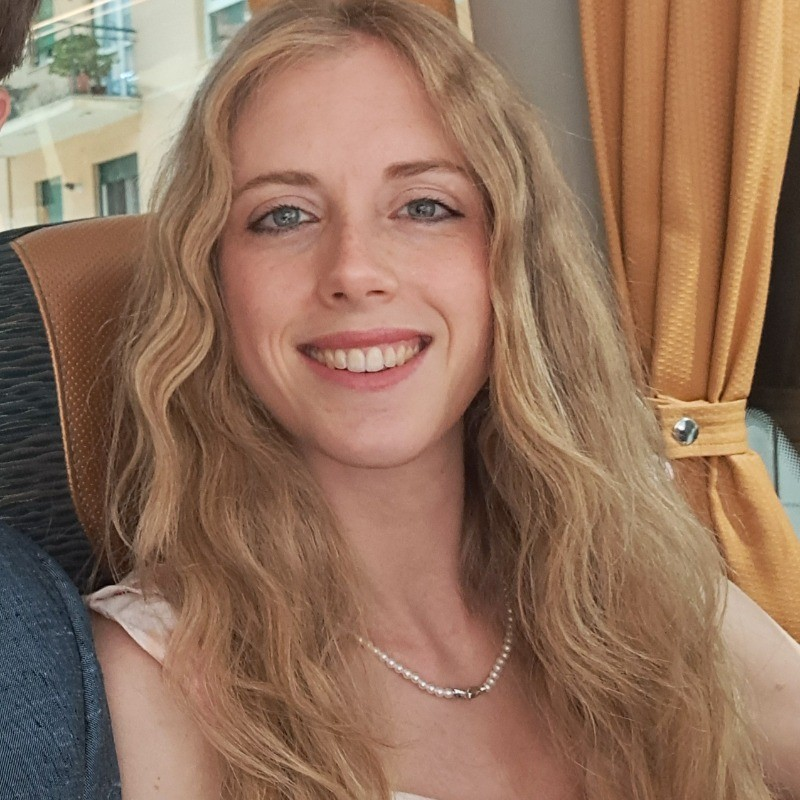
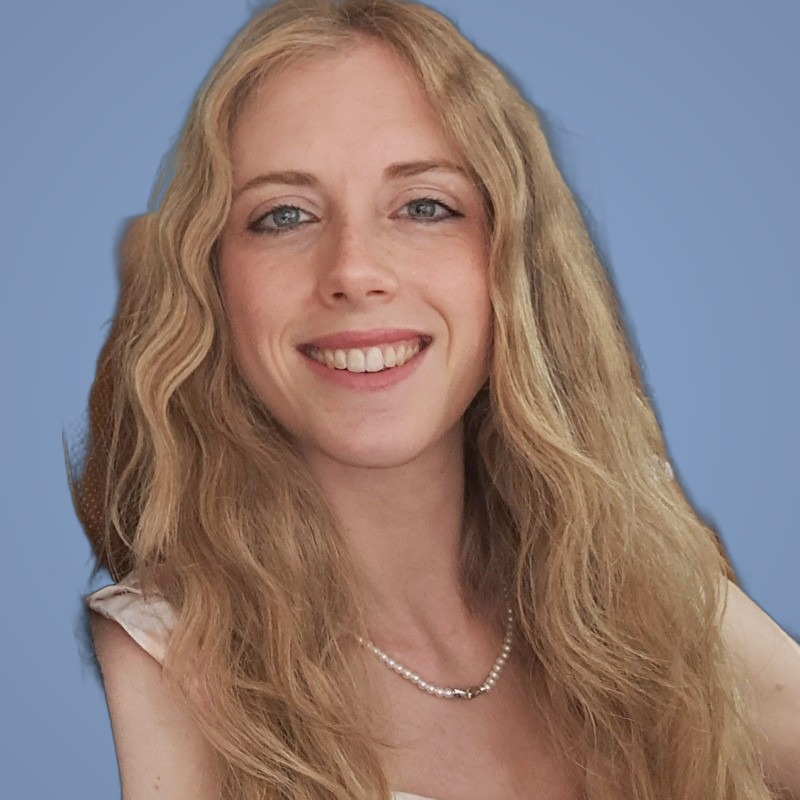
feat: orbit chips show services; consolidate Giulia image filename
Hero orbit now advertises service lines rather than tech brands:
Sviluppo Software, Consulenza IT, Business Automation, Meccatronica,
Cloud & DevOps, Ingegneria, Architetture Scalabili, R&D (with English
equivalents). Icons switch from brand logos to service-themed glyphs
(code, handshake, robot, microchip, cloud, cogs, sitemap, flask),
colored by domain — technical #3b82f6, engineering #1e40af,
innovation #f59e0b.

Also rename giulia-onorato-blue.jpg → giulia-onorato.jpg (overwrites
the original café photo, which remains in git history) for a cleaner
SEO-friendly filename.

diff --git a/en/index.html b/en/index.html
@@ -154,28 +154,28 @@
                         <div class="orbit-ring r3"></div>
                         <div class="orbit-ring r4"></div>
                         <div class="orbit-track">
-                            <div class="orbit-chip"><i class="fab fa-react"></i> React</div>
+                            <div class="orbit-chip"><i class="fas fa-code"></i> Software Development</div>
                         </div>
                         <div class="orbit-track mid" style="animation-delay: -10s;">
-                            <div class="orbit-chip"><i class="fab fa-node-js"></i> Node.js</div>
+                            <div class="orbit-chip"><i class="fas fa-handshake"></i> IT Consulting</div>
                         </div>
                         <div class="orbit-track rev" style="animation-delay: -5s;">
-                            <div class="orbit-chip"><i class="fas fa-code"></i> TypeScript</div>
+                            <div class="orbit-chip"><i class="fas fa-robot"></i> Business Automation</div>
                         </div>
                         <div class="orbit-track rev mid" style="animation-delay: -25s;">
-                            <div class="orbit-chip"><i class="fab fa-microsoft"></i> .NET / C#</div>
+                            <div class="orbit-chip"><i class="fas fa-microchip"></i> Mechatronics</div>
                         </div>
                         <div class="orbit-track slow inner" style="animation-delay: -15s;">
-                            <div class="orbit-chip"><i class="fab fa-docker"></i> Docker</div>
+                            <div class="orbit-chip"><i class="fas fa-cloud"></i> Cloud &amp; DevOps</div>
                         </div>
                         <div class="orbit-track slow" style="animation-delay: -40s;">
-                            <div class="orbit-chip"><i class="fas fa-dharmachakra"></i> Kubernetes</div>
+                            <div class="orbit-chip"><i class="fas fa-cogs"></i> Engineering</div>
                         </div>
                         <div class="orbit-track mid" style="animation-delay: -30s;">
-                            <div class="orbit-chip"><i class="fas fa-cube"></i> CAD 3D</div>
+                            <div class="orbit-chip"><i class="fas fa-sitemap"></i> Scalable Architectures</div>
                         </div>
                         <div class="orbit-track rev inner" style="animation-delay: -45s;">
-                            <div class="orbit-chip"><i class="fas fa-database"></i> PostgreSQL</div>
+                            <div class="orbit-chip"><i class="fas fa-flask"></i> R&amp;D</div>
                         </div>
                         <div class="orbit-center">
                             3000<br><em>Tech</em>
@@ -250,7 +250,7 @@
                     <p class="text-secondary font-medium">Founder & CEO</p>
                 </div>
                 <div class="text-center">
-                    <img src="../images/team/giulia-onorato-blue.jpg" alt="Giulia Onorato"
+                    <img src="../images/team/giulia-onorato.jpg" alt="Giulia Onorato"
                         class="w-48 h-48 rounded-full object-cover mx-auto mb-6 shadow-lg">
                     <h3 class="text-xl font-bold text-gray-900">Giulia Onorato</h3>
                     <p class="text-secondary font-medium">Operations</p>

diff --git a/index.html b/index.html
@@ -155,28 +155,28 @@
                         <div class="orbit-ring r3"></div>
                         <div class="orbit-ring r4"></div>
                         <div class="orbit-track">
-                            <div class="orbit-chip"><i class="fab fa-react"></i> React</div>
+                            <div class="orbit-chip"><i class="fas fa-code"></i> Sviluppo Software</div>
                         </div>
                         <div class="orbit-track mid" style="animation-delay: -10s;">
-                            <div class="orbit-chip"><i class="fab fa-node-js"></i> Node.js</div>
+                            <div class="orbit-chip"><i class="fas fa-handshake"></i> Consulenza IT</div>
                         </div>
                         <div class="orbit-track rev" style="animation-delay: -5s;">
-                            <div class="orbit-chip"><i class="fas fa-code"></i> TypeScript</div>
+                            <div class="orbit-chip"><i class="fas fa-robot"></i> Business Automation</div>
                         </div>
                         <div class="orbit-track rev mid" style="animation-delay: -25s;">
-                            <div class="orbit-chip"><i class="fab fa-microsoft"></i> .NET / C#</div>
+                            <div class="orbit-chip"><i class="fas fa-microchip"></i> Meccatronica</div>
                         </div>
                         <div class="orbit-track slow inner" style="animation-delay: -15s;">
-                            <div class="orbit-chip"><i class="fab fa-docker"></i> Docker</div>
+                            <div class="orbit-chip"><i class="fas fa-cloud"></i> Cloud &amp; DevOps</div>
                         </div>
                         <div class="orbit-track slow" style="animation-delay: -40s;">
-                            <div class="orbit-chip"><i class="fas fa-dharmachakra"></i> Kubernetes</div>
+                            <div class="orbit-chip"><i class="fas fa-cogs"></i> Ingegneria</div>
                         </div>
                         <div class="orbit-track mid" style="animation-delay: -30s;">
-                            <div class="orbit-chip"><i class="fas fa-cube"></i> CAD 3D</div>
+                            <div class="orbit-chip"><i class="fas fa-sitemap"></i> Architetture Scalabili</div>
                         </div>
                         <div class="orbit-track rev inner" style="animation-delay: -45s;">
-                            <div class="orbit-chip"><i class="fas fa-database"></i> PostgreSQL</div>
+                            <div class="orbit-chip"><i class="fas fa-flask"></i> R&amp;D</div>
                         </div>
                         <div class="orbit-center">
                             3000<br><em>Tech</em>
@@ -252,7 +252,7 @@
                     <p class="text-secondary font-medium">Founder & CEO</p>
                 </div>
                 <div class="text-center">
-                    <img src="images/team/giulia-onorato-blue.jpg" alt="Giulia Onorato"
+                    <img src="images/team/giulia-onorato.jpg" alt="Giulia Onorato"
                         class="w-48 h-48 rounded-full object-cover mx-auto mb-6 shadow-lg">
                     <h3 class="text-xl font-bold text-gray-900">Giulia Onorato</h3>
                     <p class="text-secondary font-medium">Operations</p>

diff --git a/css/styles.css b/css/styles.css
@@ -216,14 +216,14 @@ html {
 }
 
 .orbit-chip i { font-size: 0.9rem; }
-.orbit-chip i.fa-react        { color: #61DAFB; }
-.orbit-chip i.fa-node-js      { color: #339933; }
-.orbit-chip i.fa-code         { color: #3178C6; }
-.orbit-chip i.fa-microsoft    { color: #512BD4; }
-.orbit-chip i.fa-docker       { color: #2496ED; }
-.orbit-chip i.fa-dharmachakra { color: #326CE5; }
-.orbit-chip i.fa-cube         { color: #FF0000; }
-.orbit-chip i.fa-database     { color: #336791; }
+.orbit-chip i.fa-code,
+.orbit-chip i.fa-sitemap,
+.orbit-chip i.fa-cloud       { color: #3b82f6; }
+.orbit-chip i.fa-cogs,
+.orbit-chip i.fa-microchip   { color: #1e40af; }
+.orbit-chip i.fa-robot,
+.orbit-chip i.fa-flask,
+.orbit-chip i.fa-handshake   { color: #f59e0b; }
 
 .orbit-center {
     position: absolute;